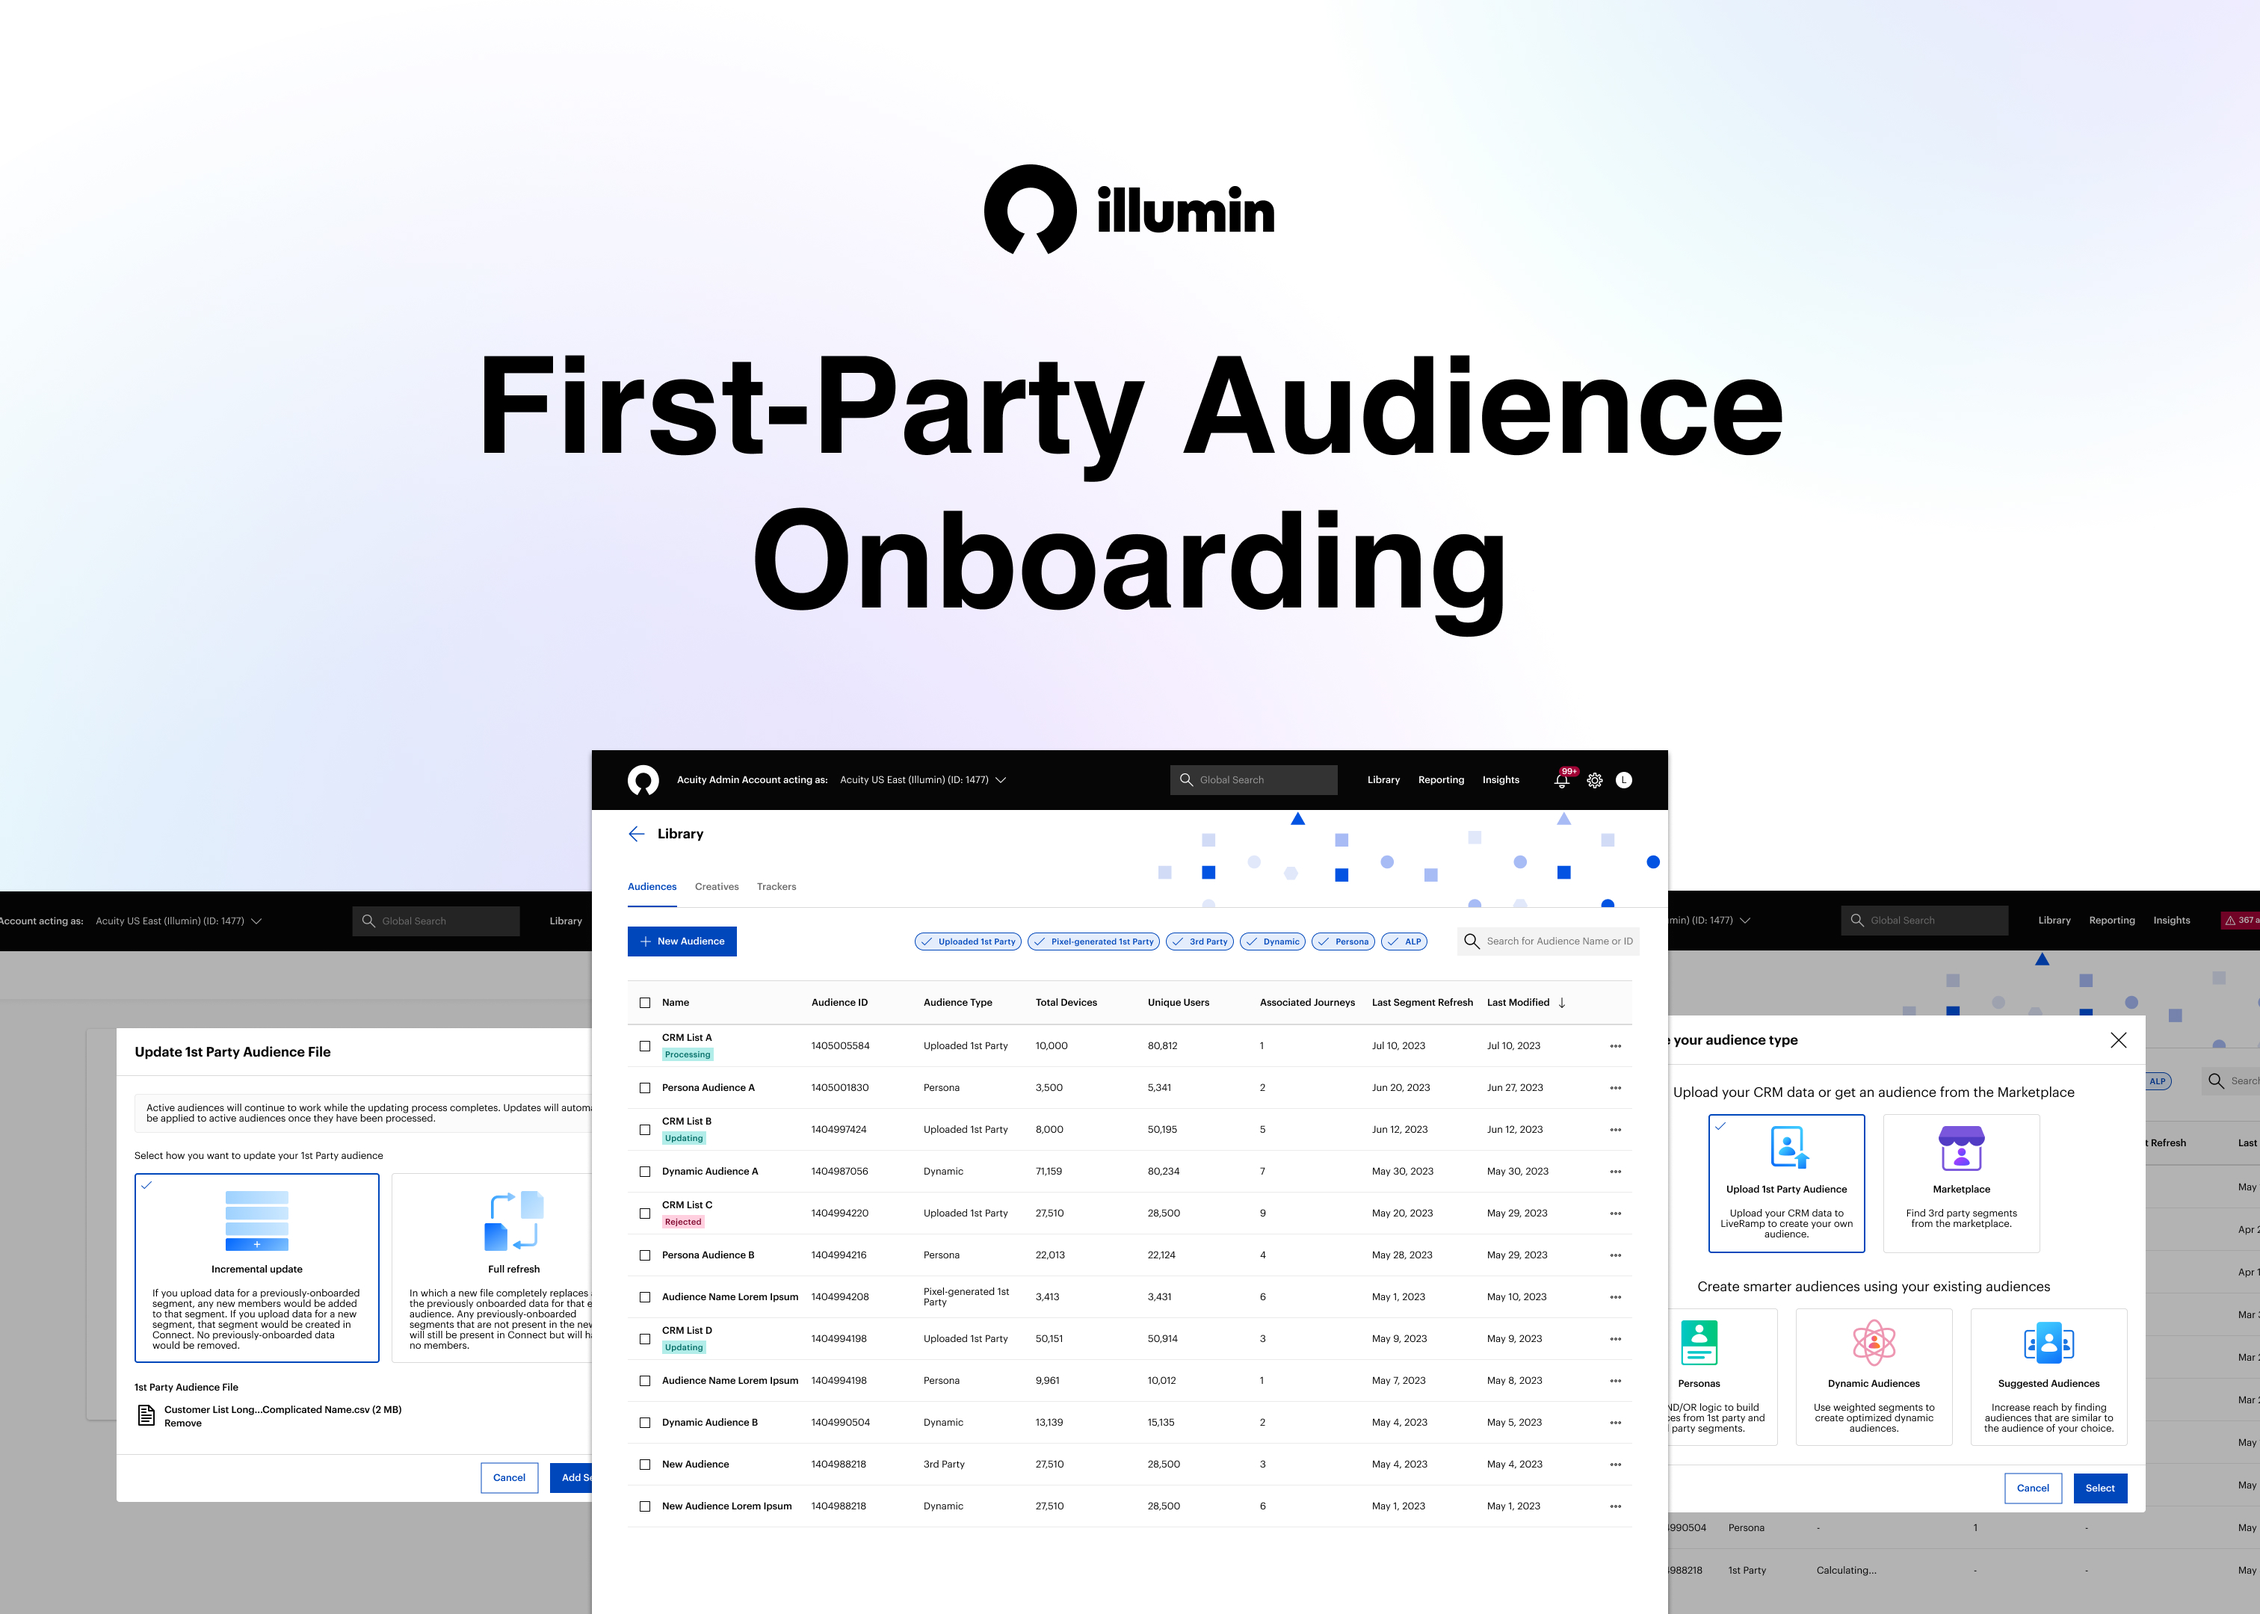
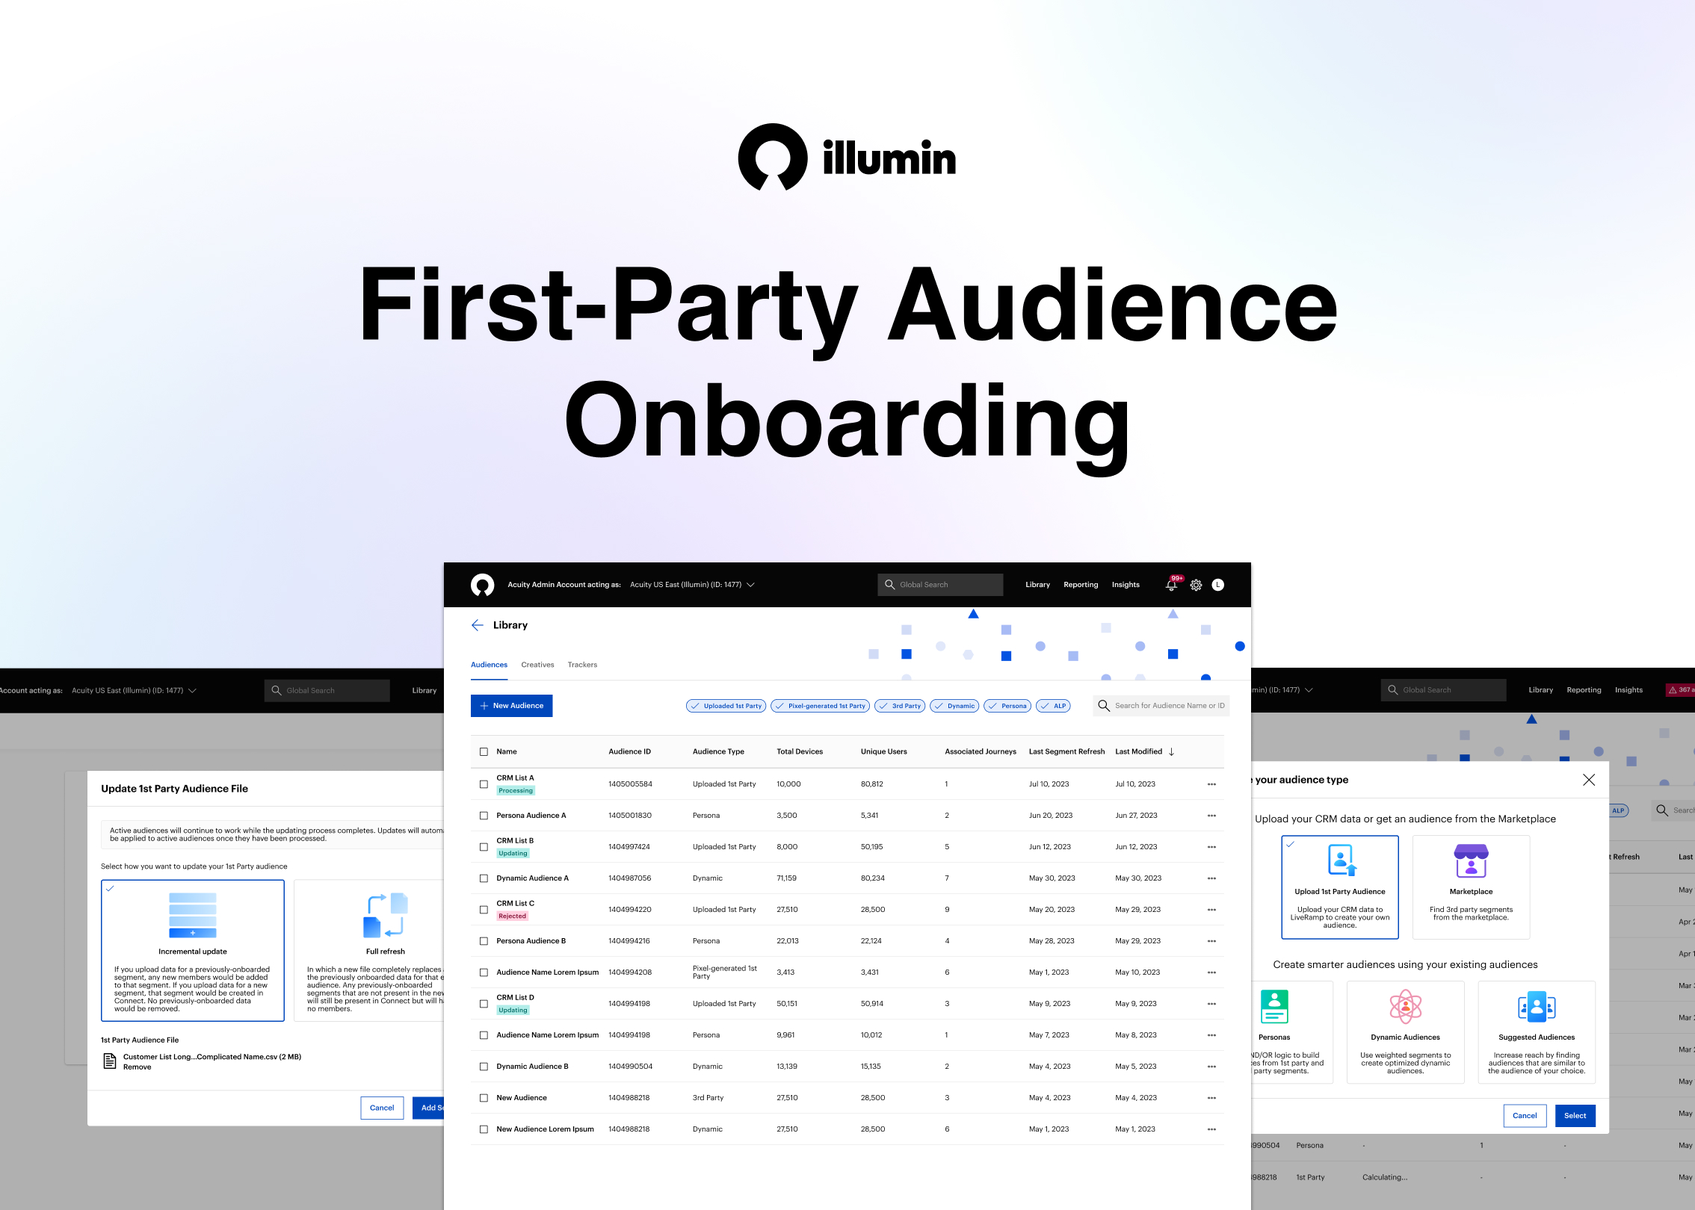
Dec 24 (5)

diff --git a/src/components/Cards.js b/src/components/Cards.js
@@ -19,7 +19,7 @@ function Cards() {
 						<ul className='cards__items'>
 								<div className='two__in__one'>
 								<CardItem
-									src="images/FI_cover.png"
+									src="images/FI_cover.jpeg"
 									text="Facebook & Instagram Integration"
 									label="Professional Project"
 									path="/facebook-instagram-integration"
@@ -49,7 +49,7 @@ function Cards() {
 								
 								<div className='two__in__one'>
 								<CardItem 
-									src="images/illumin-component-library.png"
+									src="images/illumin-component-library.jpeg"
 									text="illumin Component Library"
 									label="Professional Project"
 									path="/protected-icl"
